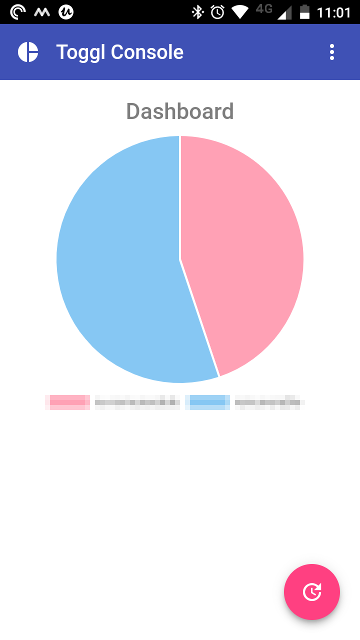
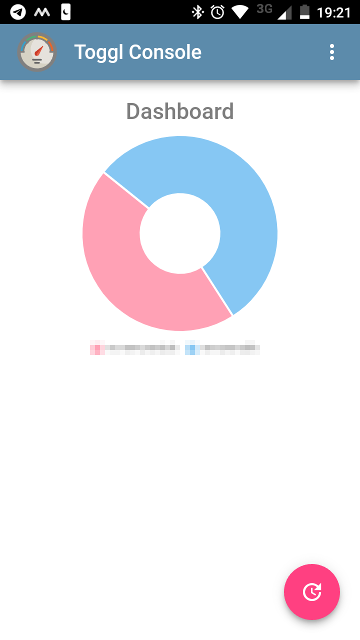
Pequeños cambios visuales

Changed region(s): [[0.1222, 0.1875, 0.8556, 0.6562], [0.0, 0.0, 1.0, 0.1562]]

diff --git a/src/app/components/dashboard/dashboard.component.ts b/src/app/components/dashboard/dashboard.component.ts
@@ -19,7 +19,23 @@ export class DashboardComponent implements OnInit, OnDestroy {
     public pieChartData:number[] = [];
     public pieChartType:string = 'pie';
     public pieChartLegend:boolean = true;
-    public pieChartOptions: any = { legend: { position: 'bottom' } }
+    public pieChartOptions: any = {        
+        responsive: true,
+        cutoutPercentage: 40,
+        rotation: 1,
+        legend: { 
+            position: 'bottom',
+            display: true,
+            fullWidth: true, 
+            reverse: false,
+            // hidden: true,
+            labels: {
+                // fontColor: 'rgb(255, 99, 132)',
+                fontSize: 10,
+                boxWidth: 10,
+            }
+        }
+    }
 
     constructor(public _toggl:TogglService, private config:LocalstorageService ) {
         config.GetConfig();

diff --git a/src/styles.css b/src/styles.css
@@ -11,6 +11,18 @@ body {
   font-family: Roboto, sans-serif;
 }
 
+.mat-toolbar.mat-primary {
+
+  background: #5c8bab;
+  color: #fff;
+  box-shadow: 0 3px 5px -1px rgba(0,0,0,.2),0 6px 10px 0 rgba(0,0,0,.14),0 1px 18px 0 rgba(0,0,0,.12);
+}
+
+.spacer {
+  flex: 1 1 auto;
+}
+
+
 mat-card {
   max-width: 80%;
   margin: 2em auto;
@@ -20,6 +32,14 @@ mat-card {
 mat-toolbar-row {
   justify-content: space-between;
 }
+
+header {
+  margin-bottom: 1.2rem;
+}
+
+header .title {
+  padding-left: 1rem;
+ }
 
 .done {
   position: fixed;
@@ -52,18 +72,15 @@ h1 {
     color: #8f8f8f;
 }
 
-header {
-  margin-bottom: 1.2rem;
-}
 
-header .title {
-  padding-left: 1rem;
-  width: 100%;
-
-}
 
 
 button:focus {
   outline: none;
   outline: none -webkit-focus-ring-color;
+}
+
+#pieChart{
+  max-width: 100%;
+  min-height: 300px;
 }

diff --git a/src/app/components/dashboard/dashboard.component.html b/src/app/components/dashboard/dashboard.component.html
@@ -2,17 +2,15 @@
     <h1>Dashboard</h1>
     <div class="row">
         
-        <div *ngIf="tags_ids" class="col-12">
+        <div *ngIf="tags_ids" class="container-fluid">
 
             <!-- <ul *ngFor="let tag of tags_ids">
                 <li>{{ tag.id }} / {{ tag.name }} / {{ tag.time }} </li>
             </ul> -->
 
-            <div *ngIf="pieChartEnabled" class="container-fluid" id="pieChart">
-
+            <div *ngIf="pieChartEnabled" id="pieChart">
                 <canvas baseChart
-                    height="95%" 
-                    width="100%"
+                    height = 210
                     [options]="pieChartOptions"
                     [legend]="pieChartLegend"
                     [data]="pieChartData"

diff --git a/src/app/components/header/header.component.html b/src/app/components/header/header.component.html
@@ -2,12 +2,17 @@
 
     <mat-toolbar color="primary">
         
-        <mat-icon routerLink="/dashboard">pie_chart</mat-icon>
+        <img src="assets/img/icon.svg" width="42" height="42" class="logo" alt="" routerLink="/dashboard">
+        
         <span class="title" routerLink="/dashboard">Toggl Console</span>
+
+        <span class="spacer"></span>
 
         <button mat-icon-button [matMenuTriggerFor]="menu" class="text-right">
             <mat-icon>more_vert</mat-icon>
         </button>
+
+        
 
         <mat-menu #menu="matMenu">
             <!-- https://material.io/tools/icons/?style=baseline -->

diff --git a/README.md b/README.md
@@ -1,4 +1,6 @@
 # TogglConsole
+![dashboard](https://raw.githubusercontent.com/lbonomo/Toggl-Console/master/src/assets/img/icon.svg)
+
 Juangdo con:
 * [Angular](https://angular.io/)
 * [Angular Material](https://material.angular.io/)
